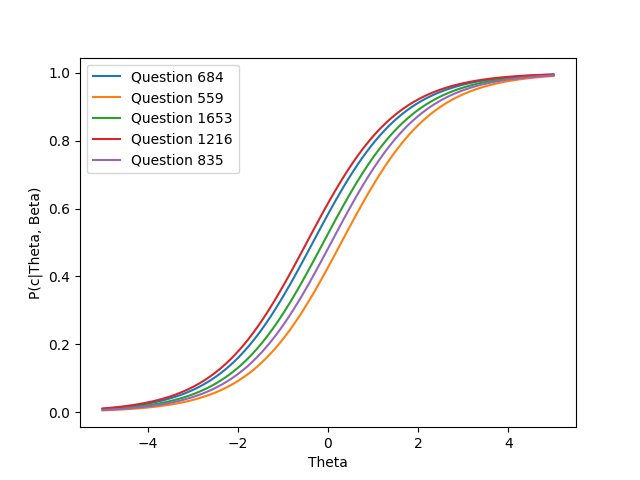
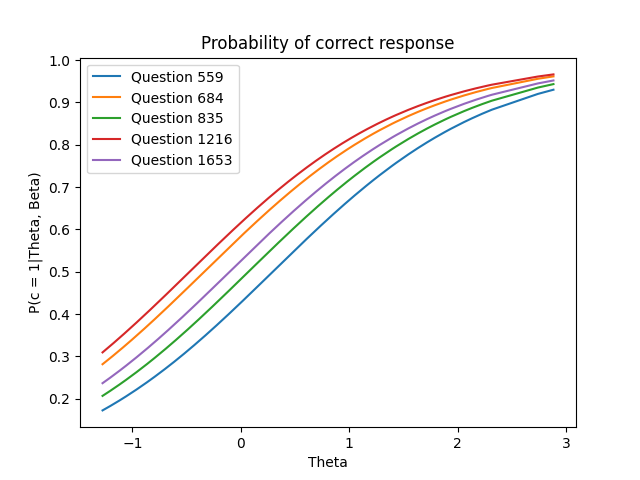
Added example where hamming works better

diff --git a/starter_code/part_a/neural_network.py b/starter_code/part_a/neural_network.py
@@ -14,8 +14,6 @@ import matplotlib.pyplot as plt
 from starter_code.utils import load_train_sparse, load_valid_csv, \
     load_public_test_csv
 
-device = torch.device('cpu')
-
 
 def load_data(base_path="../data"):
     """ Load the data in PyTorch Tensor.
@@ -72,16 +70,8 @@ class AutoEncoder(nn.Module):
         :param inputs: user vector.
         :return: user vector.
         """
-        #####################################################################
-        # TODO:                                                             #
-        # Implement the function as described in the docstring.             #
-        # Use sigmoid activations for f and g.                              #
-        #####################################################################
         out_1 = torch.sigmoid(self.g(inputs))
         out = torch.sigmoid(self.h(out_1))
-        #####################################################################
-        #                       END OF YOUR CODE                            #
-        #####################################################################
         return out
 
 
@@ -98,8 +88,6 @@ def train(model, lr, lamb, train_data, zero_train_data, valid_data, num_epoch):
     :param num_epoch: int
     :return: None
     """
-    # TODO: Add a regularizer to the cost function.
-    global device
     # Tell PyTorch you are training the model.
     model.train()
 
@@ -118,10 +106,8 @@ def train(model, lr, lamb, train_data, zero_train_data, valid_data, num_epoch):
         val_loss = 0.
 
         for user_id in range(num_student):
-            inputs = Variable(zero_train_data[user_id]).unsqueeze(0).to(device)
-            target = inputs.clone().to(device)
-            val_inputs = Variable(val_sparse[user_id]).unsqueeze(0).to(device)
-            val_target = val_inputs.clone().to(device)
+            inputs = Variable(zero_train_data[user_id]).unsqueeze(0)
+            target = inputs.clone()
 
             optimizer.zero_grad()
             output = model(inputs)
@@ -130,19 +116,22 @@ def train(model, lr, lamb, train_data, zero_train_data, valid_data, num_epoch):
             nan_mask = np.isnan(train_data[user_id].unsqueeze(0).numpy())
             target[0][nan_mask] = output[0][nan_mask]
 
-            nan_mask_val = np.isnan(val_sparse[user_id].unsqueeze(0).numpy())
-            val_target[0][nan_mask_val] = output[0][nan_mask_val]
 
             loss = torch.sum((output - target) ** 2.) + (
                     (lamb / 2) * model.get_weight_norm())
 
-            val_loss_internal = torch.sum((output - val_target) ** 2.)
-            val_loss += val_loss_internal.item()
 
             loss.backward()
 
             train_loss += loss.item()
             optimizer.step()
+
+            val_inputs = Variable(val_sparse[user_id]).unsqueeze(0)
+            val_target = val_inputs.clone()
+            nan_mask_val = np.isnan(val_sparse[user_id].unsqueeze(0).numpy())
+            val_target[0][nan_mask_val] = output[0][nan_mask_val]
+            val_loss_internal = torch.sum((output - val_target) ** 2.)
+            val_loss += val_loss_internal.item()
 
         valid_acc = evaluate(model, zero_train_data, valid_data)
         print("Epoch: {} \tTraining Cost: {:.6f}\t "
@@ -153,10 +142,6 @@ def train(model, lr, lamb, train_data, zero_train_data, valid_data, num_epoch):
     plt.plot(val_loss_lst, label="Validation")
     plt.legend()
     plt.savefig("plots/nn/nn.png")
-    #####################################################################
-    #                       END OF YOUR CODE                            #
-    #####################################################################
-
 
 
 def evaluate(model, train_data, valid_data):
@@ -186,16 +171,8 @@ def evaluate(model, train_data, valid_data):
 
 
 def main():
-    global device
     zero_train_matrix, train_matrix, valid_data, test_data = load_data()
-    if torch.cuda.is_available():
-        device = torch.device('cuda')
 
-    #####################################################################
-    # TODO:                                                             #
-    # Try out 5 different k and select the best k using the             #
-    # validation set.                                                   #
-    #####################################################################
     # Set model hyperparameters.
     k_lst = [10, 50, 100, 200, 500]
 
@@ -204,7 +181,7 @@ def main():
         'k': k_lst[0],
         'lr': 0.01,
         'num_epochs': 80,
-        'lamb': 0  # 0.001 for regularized version
+        'lamb': 0.001  # 0.001 for regularized version
     }
     print(f'Configuration: {config}')
     k = config['k']
@@ -212,14 +189,11 @@ def main():
     num_epochs = config['num_epochs']
     lamb = config['lamb']
 
-    model = AutoEncoder(train_matrix.shape[1], k).to(device=device)
-    train(model, lr, lamb, train_matrix, zero_train_matrix,
-          valid_data, num_epochs)
+    model = AutoEncoder(train_matrix.shape[1], k)
+    train(model, lr, lamb, train_matrix, zero_train_matrix, valid_data,
+          num_epochs)
     test_acc = evaluate(model, zero_train_matrix, test_data)
     print(f'Test Accuracy: {test_acc}')
-    #####################################################################
-    #                       END OF YOUR CODE                            #
-    #####################################################################
 
 
 if __name__ == "__main__":

diff --git a/starter_code/part_a/item_response.py b/starter_code/part_a/item_response.py
@@ -129,19 +129,22 @@ def plot_training_curve(train_llk, val_llk):
     plt.xlabel("Num Iterations")
     plt.ylabel("Log Likelihood")
     plt.legend()
+    plt.title("Training curve")
     plt.gcf().set_size_inches([10, 7])
     plt.savefig('plots/irt/training_curve.png')
     plt.show()
 
 
-def plot_questions(questions, beta):
-    theta = np.tile(np.linspace(-5, 5, 100), (beta.shape[0], 1)).T
+def plot_questions(questions, theta, beta):
+    theta = np.tile(theta, (beta.shape[0], 1)).T
     pc_ij = sigmoid(theta - beta)[:, questions]
     for i, p in enumerate(pc_ij.T):
+        # plt.scatter(theta[:, 0], p, label=f"Question {questions[i]}")
         plt.plot(theta[:, 0], p, label=f"Question {questions[i]}")
     plt.xlabel("Theta")
-    plt.ylabel("P(c|Theta, Beta)")
+    plt.ylabel("P(c = 1|Theta, Beta)")
     plt.legend()
+    plt.title('Probability of correct response')
     plt.savefig('plots/irt/questions.png')
     plt.show()
 
@@ -240,37 +243,25 @@ def irt_weighted(data, weights, val_data, lr, iterations):
 
 
 def main():
-    train_data = load_train_csv("../data")
+    # train_data = load_train_csv("../data")
     # You may optionally use the sparse matrix.
-    # sparse_matrix = load_train_sparse("../data")
+    sparse_matrix = load_train_sparse("../data")
     val_data = load_valid_csv("../data")
     test_data = load_public_test_csv("../data")
-    private_test = load_private_test_csv("../data")
 
-    #####################################################################
-    # TODO:                                                             #
-    # Tune learning rate and number of iterations. With the implemented #
-    # code, report the validation and test accuracy.                    #
-    #####################################################################
     lr = 0.01
     iterations = 14
-    #####################################################################
-    #                       END OF YOUR CODE                            #
-    #####################################################################
 
-    #####################################################################
-    # TODO:                                                             #
-    # Implement part (c)                                                #
-    #####################################################################
-    N = len(set(train_data['user_id']))
-    d = len(set(train_data['question_id']))
-    sparse_matrix, weights = dict_to_sparse_weighted(train_data, N, d)
-    # For weighted IRT
+    # For weighted IRT:
+    # N = len(set(train_data['user_id']))
+    # d = len(set(train_data['question_id']))
+    # sparse_matrix, weights = dict_to_sparse_weighted(train_data, N, d)
     # theta, beta, val_acc_list, train_llk, val_llk = \
     #                                                irt_weighted(sparse_matrix,
     #                                                              weights,
     #                                                              val_data, lr,
     #                                                              iterations)
+
     theta, beta, val_acc_list, train_llk, val_llk = irt(sparse_matrix,
                                                         val_data, lr,
                                                         iterations)
@@ -278,13 +269,13 @@ def main():
     print(f'Test Score: {score}')
     plot_training_curve(train_llk, val_llk)
     np.random.seed(0)
-    plot_questions(np.random.choice(sparse_matrix.shape[1], 5), beta)
+    plot_questions([559, 684, 835, 1216, 1653], sorted(theta), beta)
+
+    # For private test:
+    # private_test = load_private_test_csv('../data')
     # preds = predict(private_test, theta, beta)
     # private_test['is_correct'] = preds
     # save_private_test_csv(private_test, 'predictions.csv')
-    #####################################################################
-    #                       END OF YOUR CODE                            #
-    #####################################################################
 
 
 if __name__ == "__main__":

diff --git a/starter_code/part_a/ensemble.py b/starter_code/part_a/ensemble.py
@@ -7,7 +7,7 @@ from utils import *
 
 def irt_ensemble(train_data, train_weights, val_data):
     lr = 0.01
-    iterations = 15
+    iterations = 14
     theta, beta, val_acc_list, train_llk, val_llk = irt_weighted(train_data,
                                                                  train_weights,
                                                                  val_data,
@@ -36,10 +36,10 @@ def main():
     # create sample data
     train_full = load_train_csv('../data')
     test_data = load_public_test_csv('../data')
-    private_test = load_private_test_csv('../data')
     n = len(train_full['user_id'])
     N = len(set(train_full['user_id']))
     d = len(set(train_full['question_id']))
+    # Sampling with replacement
     irt1_idx = np.random.choice(n, n)
     irt2_idx = np.random.choice(n, n)
     irt3_idx = np.random.choice(n, n)
@@ -57,6 +57,7 @@ def main():
     # item = item_sample.toarray()
     # item[item == 0] = -1
     # item *= item_weights
+    # Running the models
     print('First dataset: ')
     irt1_predictions = irt_ensemble(irt1_sample, irt1_weights, val_data)
     print('\nSecond dataset: ')
@@ -67,7 +68,6 @@ def main():
     # item_out = np.nan_to_num(knn_item(item), nan=0)
     # user_predictions = 0.5 + (user_out / 2)
     # item_predictions = 0.5 + (item_out / 2)
-
     # if user_predictions.shape != irt_predictions.shape:
     #     missing_col = list(
     #         set(range(d)).difference(set(user_dict['question_id'])))
@@ -75,6 +75,7 @@ def main():
     #     user_inter = np.ones((N, d)) * 0.5
     #     for i in range(1, len(missing_col)-1):
 
+    # Predictions and accuracy
     predictions = (irt1_predictions + irt2_predictions + irt3_predictions) / 3
     val_acc = sparse_matrix_evaluate(val_data, predictions)
     test_acc = sparse_matrix_evaluate(test_data, predictions)

diff --git a/starter_code/part_b/example.py b/starter_code/part_b/example.py
@@ -1,0 +1,27 @@
+from sklearn.impute import KNNImputer
+import numpy as np
+from scipy.spatial.distance import hamming
+
+
+def pairwise_callable(X, Y, **kwds):
+    return hamming(X, Y)
+
+
+if __name__ == '__main__':
+    train_data = np.array(
+        [[1, 1, 1], [1, np.nan, 1], [np.nan, 1, 0], [1, np.nan, 1],
+         [1, np.nan, 1]])
+    full_data = np.array(
+        [[1, 1, 1], [1, 1, 1], [0, 1, 0], [1, 1, 1],
+         [1, 1, 1]])
+
+    nbrs_euclidean = KNNImputer(n_neighbors=1)
+    nbrs_hamming = KNNImputer(n_neighbors=1, metric=pairwise_callable)
+
+    mat_euclidean = nbrs_euclidean.fit_transform(train_data.T).T
+    mat_hamming = nbrs_hamming.fit_transform(train_data.T).T
+
+    print(f'train: \n{train_data}')
+    print(f'nan_euclidean: \n{mat_euclidean}')
+    print(f'hamming: \n{mat_hamming}')
+    print(f'actual: \n{full_data}')

diff --git a/starter_code/utils.py b/starter_code/utils.py
@@ -210,9 +210,6 @@ def dict_to_sparse_weighted(data_dict, N, d):
     weights = np.zeros((N, d))
     mat[:, :] = np.nan
     weights[:, :] = 0
-    # for i in range(len(data_dict['user_id'])):
-    #     mat[data_dict['user_id'][i], data_dict['question_id'][i]] = data_dict[
-    #         'is_correct'][i]
     mat[data_dict['user_id'], data_dict['question_id']] = data_dict[
         'is_correct']
     inds = np.vstack([data_dict['user_id'], data_dict['question_id']])

diff --git a/starter_code/part_a/knn.py b/starter_code/part_a/knn.py
@@ -24,6 +24,7 @@ def knn_impute_by_user(matrix, valid_data, k):
     return acc
 
 
+
 def knn_impute_by_item(matrix, valid_data, k):
     """ Fill in the missing values using k-Nearest Neighbors based on
     question similarity. Return the accuracy on valid_data.
